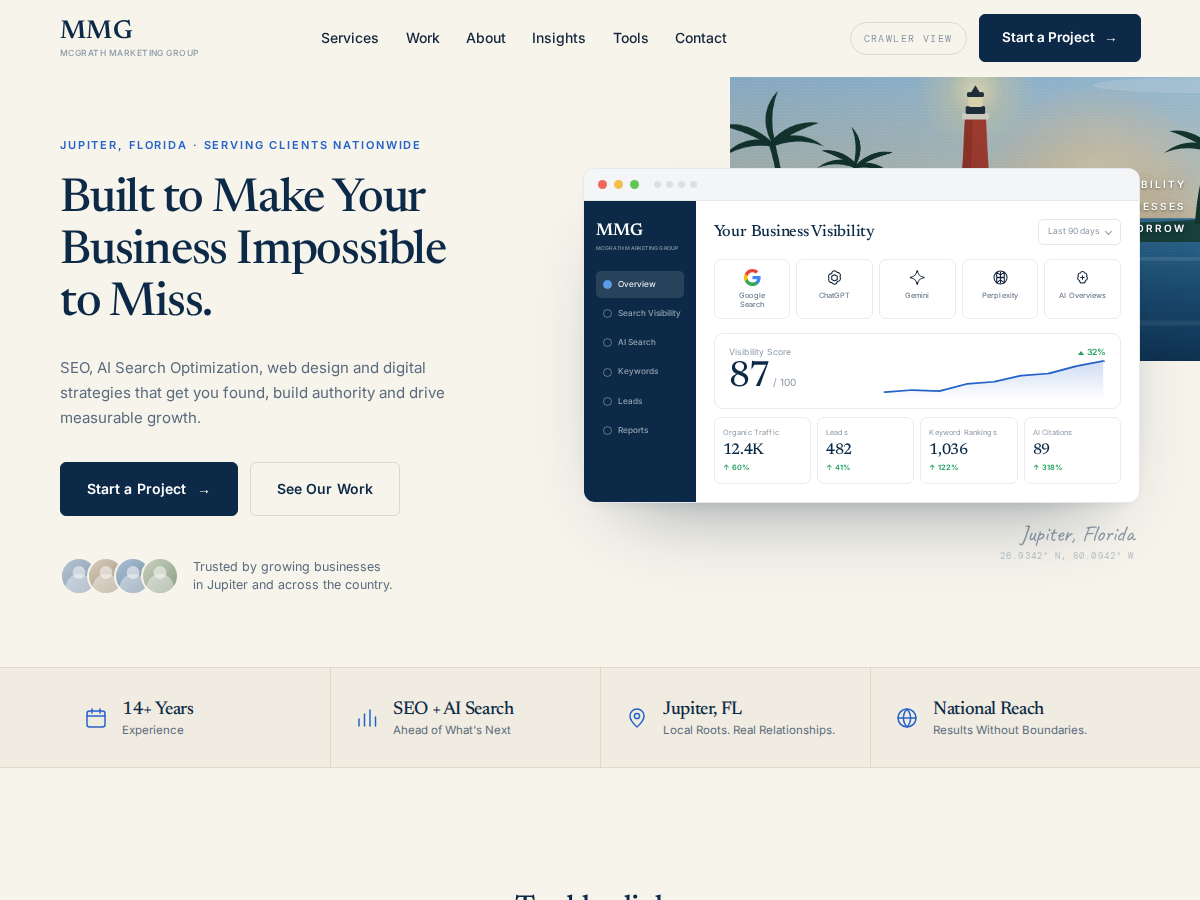
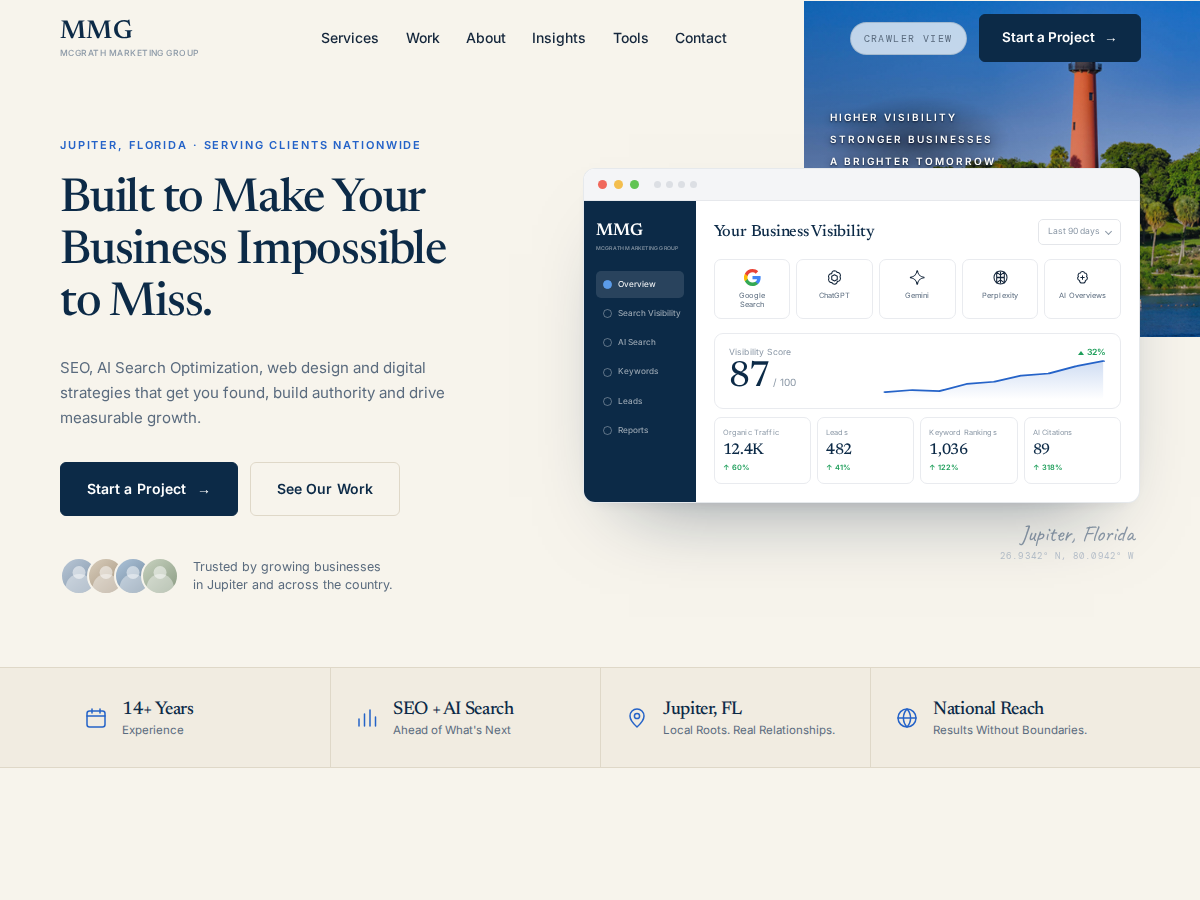
Use the real Jupiter photograph, and quiet the dissolve down to the pixels
Three changes to the homepage.

The narration is gone. "Ten blue links.", "The page comes apart." and "One
answer." are removed from the dissolve, along with the strings behind them and
the CSS that positioned them. The section heading still fades out as the
sequence starts, but it now fades in place instead of sliding.

The drawn lighthouse is replaced by the photograph of the Jupiter Inlet light.
It ships as assets/img/hero.jpg and assets/img/roots.jpg, which mcg_plate()
already preferred over the drawn scene, and both calls now pass a
background-position so the light stays framed when the panel crops. The drawn
scene stays in the theme as the stand-in for any panel without a photo, which
is currently just the closing call to action.

The moving chrome field at the end of the dissolve is gone. The stage now
settles onto a still blue that fades in as the last particles land, so the only
thing moving in the whole section is the page of links turning into the
question. The citation row fades in rather than rising, and its chips are
repainted for the blue.

Framing the photograph needed the hero panel reworked: it starts at the top of
the page rather than 76px above it, so the lantern is no longer buried behind
the header, and it is proportioned close to the photo's own aspect so the crop
stays gentle. The overlay lines move to open sky on the left, clear of the
tower. Dropping .hero's overflow clip let the panel reach the top but let the
[…]

Changed region(s): [[0.5858, 0.0, 1.0, 0.4044], [0.4317, 0.9956, 0.4933, 1.0], [0.5242, 0.9956, 0.555, 1.0]]

diff --git a/themes/mcgrath-chrome/style.css b/themes/mcgrath-chrome/style.css
@@ -47,6 +47,7 @@ Tags: custom-menu, custom-logo, custom-background, featured-images, threaded-com
   --script:"Caveat","Segoe Script",cursive;
 
   --gut:clamp(20px,5vw,72px);
+  --navh:76px;
   --maxw:1320px;
   --r:14px;
   --r-lg:22px;
@@ -54,11 +55,15 @@ Tags: custom-menu, custom-logo, custom-background, featured-images, threaded-com
 }
 
 *{box-sizing:border-box;}
-html{scroll-behavior:smooth;}
+/* clip, not hidden: clip keeps the bled photo panel off the scrollbar
+   without turning the page into a scroll container, which would break
+   the sticky header. overflow-x:hidden stays as the older fallback. */
+html{scroll-behavior:smooth;overflow-x:hidden;overflow-x:clip;}
 body{
   margin:0;background:var(--cream);color:var(--ink);
   font-family:var(--body);font-weight:400;font-size:16px;line-height:1.6;
-  -webkit-font-smoothing:antialiased;text-rendering:optimizeLegibility;overflow-x:hidden;
+  -webkit-font-smoothing:antialiased;text-rendering:optimizeLegibility;
+  overflow-x:hidden;overflow-x:clip;
 }
 h1,h2,h3,h4{font-family:var(--display);font-weight:500;letter-spacing:-.022em;line-height:1.04;margin:0;text-wrap:balance;color:var(--navy);}
 p{margin:0;}
@@ -133,7 +138,7 @@ a{color:inherit;text-decoration:none;}
 body.is-front .nav:not(.stuck){background:transparent;backdrop-filter:none;}
 .nav.stuck{border-bottom-color:var(--line);box-shadow:0 10px 30px -26px rgba(12,42,71,.5);}
 .navIn{
-  max-width:var(--maxw);margin-inline:auto;height:76px;
+  max-width:var(--maxw);margin-inline:auto;height:var(--navh);
   display:flex;align-items:center;justify-content:space-between;gap:24px;
 }
 .brand{display:flex;align-items:center;gap:10px;}
@@ -175,10 +180,11 @@ body.is-front .nav:not(.stuck){background:transparent;backdrop-filter:none;}
 /* crawler switch */
 .vmode{
   font-family:var(--mono);font-size:10px;letter-spacing:.14em;text-transform:uppercase;
-  background:transparent;color:var(--ink-45);border:1px solid var(--line);border-radius:999px;
+  background:rgba(255,255,255,.72);backdrop-filter:blur(8px);
+  color:var(--ink-70);border:1px solid rgba(12,42,71,.16);border-radius:999px;
   padding:9px 13px;cursor:pointer;transition:color .25s,border-color .25s,background .25s;
 }
-.vmode:hover{color:var(--navy);border-color:var(--navy);}
+.vmode:hover{background:#fff;color:var(--navy);border-color:var(--navy);}
 .vmode:focus-visible{outline:2px solid var(--blue);outline-offset:3px;}
 body.crawl .vmode{background:var(--navy);color:var(--cream);border-color:var(--navy);}
 
@@ -207,7 +213,9 @@ body.crawl .vmode{background:var(--navy);color:var(--cream);border-color:var(--n
 /* =====================================================================
    4. HERO
    ===================================================================== */
-.hero{position:relative;overflow:hidden;padding-block:clamp(38px,5vw,64px) clamp(48px,6vw,86px);}
+/* no overflow clip here: the photo panel runs up past the header to the top
+   of the page, and the panel does its own clipping. */
+.hero{position:relative;padding-block:clamp(38px,5vw,64px) clamp(48px,6vw,86px);}
 .heroIn{
   max-width:var(--maxw);margin-inline:auto;position:relative;z-index:2;
   display:grid;grid-template-columns:minmax(0,.92fr) minmax(0,1.08fr);
@@ -246,18 +254,30 @@ body.crawl .vmode{background:var(--navy);color:var(--cream);border-color:var(--n
 
 /* hero scene : lighthouse plate + dashboard ------------------------- */
 .heroScene{position:relative;min-width:0;}
+/* The panel runs from the very top of the page — the bar floats over it —
+   so the whole photograph is on screen, not half of it behind the header. */
 .heroPlate{
-  position:absolute;top:calc(-1 * (clamp(38px,5vw,64px) + 76px));right:calc(-1 * var(--gut));
-  width:min(52%,530px);height:clamp(330px,35vw,470px);
-  border-bottom-left-radius:160px 112px;overflow:hidden;z-index:0;
+  position:absolute;top:calc(-1 * var(--navh));right:calc(-1 * var(--gut));
+  width:min(46%,590px);height:clamp(300px,28vw,396px);
+  border-bottom-left-radius:150px 104px;overflow:hidden;z-index:0;
 }
 .heroPlate .ph{transition:transform .1s linear;will-change:transform;}
 .heroPlate .ph{position:absolute;inset:0;}
 .heroPlate .tag{
-  position:absolute;right:calc(var(--gut) + 14px);top:calc(var(--gut) + 172px);z-index:3;text-align:right;
+  position:absolute;left:clamp(18px,2.2vw,30px);right:auto;
+  top:calc(var(--navh) + clamp(18px,2.4vw,32px));z-index:3;text-align:left;
   font-family:var(--body);font-weight:600;font-size:10px;letter-spacing:.2em;text-transform:uppercase;
-  color:#fff;line-height:2.2;text-shadow:0 1px 3px rgba(6,22,40,.55),0 2px 22px rgba(6,22,40,.7);
+  color:#fff;line-height:2.2;
+  text-shadow:0 1px 2px rgba(6,22,40,.75),0 2px 10px rgba(6,22,40,.65),0 4px 30px rgba(6,22,40,.5);
 }
+/* a soft scrim so the three lines stay legible whatever photo goes in */
+.heroPlate .tag::before{
+  content:"";position:absolute;left:-30px;top:-24px;width:calc(100% + 70px);height:calc(100% + 50px);
+  border-radius:50%;z-index:-1;
+  background:radial-gradient(closest-side,rgba(8,26,48,.4),rgba(8,26,48,0) 78%);
+}
+/* below the widest layout the panel steps back so the menu never lands on it */
+@media(max-width:1360px){.heroPlate{width:min(38%,470px);}}
 @media(max-width:980px){.heroPlate{display:none;}}
 
 .dash{
@@ -397,7 +417,10 @@ body.crawl .vmode{background:var(--navy);color:var(--cream);border-color:var(--n
 .heroSeq{height:340vh;position:relative;background:var(--cream);}
 .hstage{position:sticky;top:0;height:100vh;overflow:hidden;background:var(--cream);}
 .hstage canvas{position:absolute;inset:0;width:100%;height:100%;display:block;}
-.hchrome{opacity:0;transition:opacity .4s linear;}
+/* The only thing that moves in this section is the type turning into pixels.
+   This is a still colour that settles in behind the answer as they land. */
+.hbg{position:absolute;inset:0;opacity:0;transition:opacity .45s linear;
+  background:radial-gradient(112% 82% at 50% 34%,#EDF3FC 0%,#DAE7F7 46%,#C2D8F0 78%,#AFCAE9 100%);}
 .hmorph{z-index:2;opacity:0;transition:opacity .16s linear;}
 .hoverlay{position:absolute;inset:0;z-index:3;pointer-events:none;}
 .hoverlay a{pointer-events:auto;}
@@ -406,26 +429,12 @@ body.crawl .vmode{background:var(--navy);color:var(--cream);border-color:var(--n
 .htitle{
   position:absolute;left:0;top:50%;transform:translateY(-50%);
   width:min(42%,520px);padding-left:max(var(--gut),calc(50vw - var(--maxw)/2));
-  transition:opacity .5s ease,transform .7s var(--ease);
+  transition:opacity .5s ease;
 }
 .htitle h2{font-size:clamp(30px,3.8vw,54px);letter-spacing:-.028em;margin-top:16px;}
 .htitle p{margin-top:20px;max-width:40ch;font-size:clamp(14px,1.15vw,16px);line-height:1.66;color:var(--ink-70);}
 .htitle .alink{margin-top:26px;}
-.htitle.out{opacity:0;transform:translateY(-50%) translateX(-32px);}
-
-/* narration that swaps as the pixels fly */
-.qlabels{position:absolute;top:clamp(86px,13vh,146px);left:0;right:0;pointer-events:none;}
-.qlab{
-  position:absolute;left:0;right:0;padding-inline:var(--gut);text-align:center;display:block;
-  opacity:0;transition:opacity .55s ease;
-  font-family:var(--body);font-weight:600;font-size:10.5px;letter-spacing:.17em;
-  text-transform:uppercase;color:var(--ink-45);
-}
-.qlab b{
-  display:block;margin-bottom:12px;font-family:var(--display);font-weight:500;
-  font-size:clamp(19px,2.5vw,32px);letter-spacing:-.025em;color:var(--navy);text-transform:none;
-}
-.qlab.is-on{opacity:1;}
+.htitle.out{opacity:0;}
 
 /* the page of blue links, real DOM text, right side of the stage */
 .serp{
@@ -465,13 +474,13 @@ body.crawl .vmode{background:var(--navy);color:var(--cream);border-color:var(--n
 .dcites{
   position:absolute;left:0;right:0;bottom:clamp(52px,10vh,110px);padding-inline:var(--gut);
   display:flex;flex-wrap:wrap;gap:10px;justify-content:center;opacity:0;
-  transition:opacity .6s ease,transform .6s var(--ease);transform:translateY(12px);
+  transition:opacity .6s ease;
 }
-.dcites.is-on{opacity:1;transform:none;}
+.dcites.is-on{opacity:1;}
 .cite{
-  display:flex;align-items:center;gap:9px;border:1px solid var(--line);border-radius:999px;
+  display:flex;align-items:center;gap:9px;border:1px solid #C6D6EA;border-radius:999px;
   padding:9px 16px;font-family:var(--mono);font-size:11.5px;color:var(--ink-70);
-  background:rgba(255,255,255,.84);backdrop-filter:blur(6px);
+  background:#fff;
 }
 .cite u{text-decoration:none;color:var(--navy);font-weight:500;}
 .cite.first{background:var(--navy);color:#C9D6E6;border-color:var(--navy);}
@@ -485,7 +494,6 @@ body.crawl .vmode{background:var(--navy);color:var(--cream);border-color:var(--n
   .htitle p,.htitle .alink{display:none;}
   .serp{top:auto;bottom:6vh;left:var(--gut);right:var(--gut);width:auto;transform:none;}
   .res:nth-of-type(n+4){display:none;}
-  .qlabels{display:none;}
 }
 
 /* =====================================================================
@@ -786,7 +794,8 @@ body.crawl h1,body.crawl h2,body.crawl h3,body.crawl h4{letter-spacing:0;font-we
 body.crawl .nav{background:rgba(6,8,10,.9);}
 body.crawl .heroCopy h1{font-size:clamp(22px,3vw,40px);}
 body.crawl .qtext p{font-size:clamp(18px,2.6vw,34px);letter-spacing:0;}
-body.crawl .hchrome,body.crawl .lensX,body.crawl .cta canvas{display:none;}
+body.crawl .lensX,body.crawl .cta canvas{display:none;}
+body.crawl .hbg{background:#081009;}
 body.crawl [data-tag]::before{
   content:attr(data-tag) " ";color:var(--ink-45);font-size:.5em;vertical-align:super;letter-spacing:.06em;
 }
@@ -794,7 +803,7 @@ body.crawl .sbar{background:#0A120D;border-color:#14291C;box-shadow:none;}
 body.crawl .sbar span,body.crawl .rtitle span{color:#9FF3B8;}
 body.crawl .rurl span,body.crawl .rsnip span{color:#5FBE80;}
 body.crawl .fav{background:#14291C;}
-body.crawl .cite{background:#0A120D;}
+body.crawl .cite{background:#0A120D;border-color:#1F5236;}
 body.crawl .qtext .mk{background:#9FF3B8;color:#06080A;}
 body.crawl .case,body.crawl .cta,body.crawl .site-foot{background:#06080A;color:#5FBE80;}
 body.crawl .case::before,body.crawl .cta::after{display:none;}
@@ -840,6 +849,7 @@ body.crawl .navcta{background:#0A120D;color:#9FF3B8;border-color:#1F5236;}
   .js .rv{opacity:1!important;transform:none!important;}
   .heroSeq{height:auto;}
   .hstage{position:static;height:min(88vh,780px);}
+  .hbg{opacity:1;}
   .htitle.out{opacity:1;transform:translateY(-50%);}
   .cursor{display:none!important;}
 }

diff --git a/themes/mcgrath-chrome/assets/js/chrome.js b/themes/mcgrath-chrome/assets/js/chrome.js
@@ -70,6 +70,7 @@
       if(!reduce) requestAnimationFrame(loop);
     })(t0);
   }
+  /* inner-page heroes and the closing CTA only; the dissolve no longer uses it */
   field(document.getElementById('chrome'),false);
   field(document.getElementById('chrome2'),true);
 
@@ -390,11 +391,9 @@
     ctx.putImageData(img,0,0);
   }
 
-  var labs=[].slice.call(sec.querySelectorAll('.qlab')),
-      cites=document.getElementById('dcites'),
+  var cites=document.getElementById('dcites'),
       title=document.getElementById('htitle'),
-
-      chrome=document.getElementById('chrome'),
+      bg=document.getElementById('hbg'),
       serpEl=document.getElementById('serp'),
       qEl=document.getElementById('qtext'),
       shown=-1,raf=0,target=0,cur=0;
@@ -407,14 +406,12 @@
     var idx = local<0.06 ? 0 : (local<0.74 ? 1 : 2);
     if(idx!==shown){
       shown=idx;
-      labs.forEach(function(l){
-        l.classList.toggle('is-on', l.getAttribute('data-step')===String(idx));
-      });
       if(title) title.classList.toggle('out', idx>0);
     }
 
     if(cites) cites.classList.toggle('is-on', local>0.92);
-    if(chrome) chrome.style.opacity = String(Math.max(0,Math.min((local-0.70)/0.26,1)) * 0.52);
+    /* the colour behind the answer settles in as the last particles land */
+    if(bg) bg.style.opacity = String(Math.max(0,Math.min((local-0.68)/0.28,1)));
   }
 
   function progress(){
@@ -440,7 +437,7 @@
     build();
     if(reduce){paint(1);setStage(1);if(cites)cites.classList.add('is-on');cv.style.opacity='0';
       if(serpEl)serpEl.style.opacity='0';if(qEl)qEl.style.opacity='1';
-      if(chrome)chrome.style.opacity='0.9';return;}
+      if(bg)bg.style.opacity='1';return;}
     paint(0);setStage(0);
     window.addEventListener('scroll',onScroll,{passive:true});
     onScroll();

diff --git a/themes/mcgrath-chrome/front-page.php b/themes/mcgrath-chrome/front-page.php
@@ -16,7 +16,7 @@ get_header();
 <!-- ============================ HERO ============================ -->
 <section class="hero gut" id="hero">
 	<div class="heroPlate" aria-hidden="true">
-		<?php mcg_plate( 'hero' ); ?>
+		<?php mcg_plate( 'hero', '', '64% 38%' ); ?>
 		<span class="tag">
 			<?php echo esc_html( mcg_opt( 'mcg_plate_l1', 'Higher Visibility' ) ); ?><br>
 			<?php echo esc_html( mcg_opt( 'mcg_plate_l2', 'Stronger Businesses' ) ); ?><br>
@@ -147,7 +147,7 @@ get_header();
      ===================================================================== -->
 <section class="heroSeq" id="heroSeq" aria-labelledby="shiftHead">
 	<div class="hstage">
-		<canvas id="chrome" class="hchrome" aria-hidden="true"></canvas>
+		<div class="hbg" id="hbg" aria-hidden="true"></div>
 		<canvas id="morph" class="hmorph" aria-hidden="true"></canvas>
 
 		<div class="hoverlay">
@@ -156,14 +156,6 @@ get_header();
 				<h2 id="shiftHead" data-tag="&lt;h2&gt;"><?php echo esc_html( mcg_opt( 'mcg_shift_head', 'Search changed. We changed with it.' ) ); ?></h2>
 				<p><?php echo esc_html( mcg_opt( 'mcg_shift_sub', 'A modern marketing partner for a multi-platform world. From Google to AI search, we help brands show up, stand out and grow — with strategies built for what is next.' ) ); ?></p>
 				<a class="alink" href="#services"><?php esc_html_e( 'Our Services', 'mcgrath-chrome' ); ?> <span class="arw" aria-hidden="true">&rarr;</span></a>
-			</div>
-
-			<div class="qlabels" aria-hidden="true">
-				<?php foreach ( mcg_dissolve_steps() as $mcg_i => $mcg_step ) : ?>
-					<span class="qlab<?php echo 0 === $mcg_i ? ' is-on' : ''; ?>" data-step="<?php echo (int) $mcg_i; ?>">
-						<b><?php echo esc_html( $mcg_step['head'] ); ?></b><?php echo esc_html( $mcg_step['sub'] ); ?>
-					</span>
-				<?php endforeach; ?>
 			</div>
 
 			<div class="serp" id="serp">
@@ -330,7 +322,7 @@ echo '<span data-q class="mk">' . esc_html( wp_strip_all_tags( $mcg_mark ) ) . '
 
 <!-- ======================= JUPITER ROOTS ========================= -->
 <section class="roots" id="home-base">
-	<div class="rootsPic" aria-hidden="true"><?php mcg_plate( 'roots' ); ?></div>
+	<div class="rootsPic" aria-hidden="true"><?php mcg_plate( 'roots', '', '62% 46%' ); ?></div>
 
 	<div class="rootsBody">
 		<div class="rv">

diff --git a/themes/mcgrath-chrome/inc/content.php b/themes/mcgrath-chrome/inc/content.php
@@ -24,17 +24,20 @@ function mcg_url( $slug ) {
  *
  * @param string $name  File basename: hero, roots or ocean.
  * @param string $class Extra classes, e.g. "night".
+ * @param string $focus background-position for the photo, so a replacement
+ *                      shot can be re-aimed without touching the stylesheet.
  */
-function mcg_plate( $name, $class = '' ) {
+function mcg_plate( $name, $class = '', $focus = '50% 50%' ) {
 	$dir = get_template_directory() . '/assets/img/';
 	$uri = get_template_directory_uri() . '/assets/img/';
 
 	foreach ( array( 'webp', 'jpg', 'jpeg', 'png' ) as $ext ) {
 		if ( file_exists( $dir . $name . '.' . $ext ) ) {
 			printf(
-				'<div class="ph bg %s" style="background-image:url(%s)"><span class="grade"></span></div>',
+				'<div class="ph bg %s" style="background-image:url(%s);background-position:%s"><span class="grade"></span></div>',
 				esc_attr( $class ),
-				esc_url( $uri . $name . '.' . $ext )
+				esc_url( $uri . $name . '.' . $ext ),
+				esc_attr( $focus )
 			);
 			return;
 		}
@@ -323,13 +326,4 @@ function mcg_social() {
 		}
 	}
 	return $out;
-}
-
-/** The three narration beats that run while the pixels fly. */
-function mcg_dissolve_steps() {
-	return array(
-		array( 'head' => 'Ten blue links.', 'sub' => 'What search used to be' ),
-		array( 'head' => 'The page comes apart.', 'sub' => 'Every pixel is in motion' ),
-		array( 'head' => 'One answer.', 'sub' => 'And a shortlist of who gets named' ),
-	);
 }
